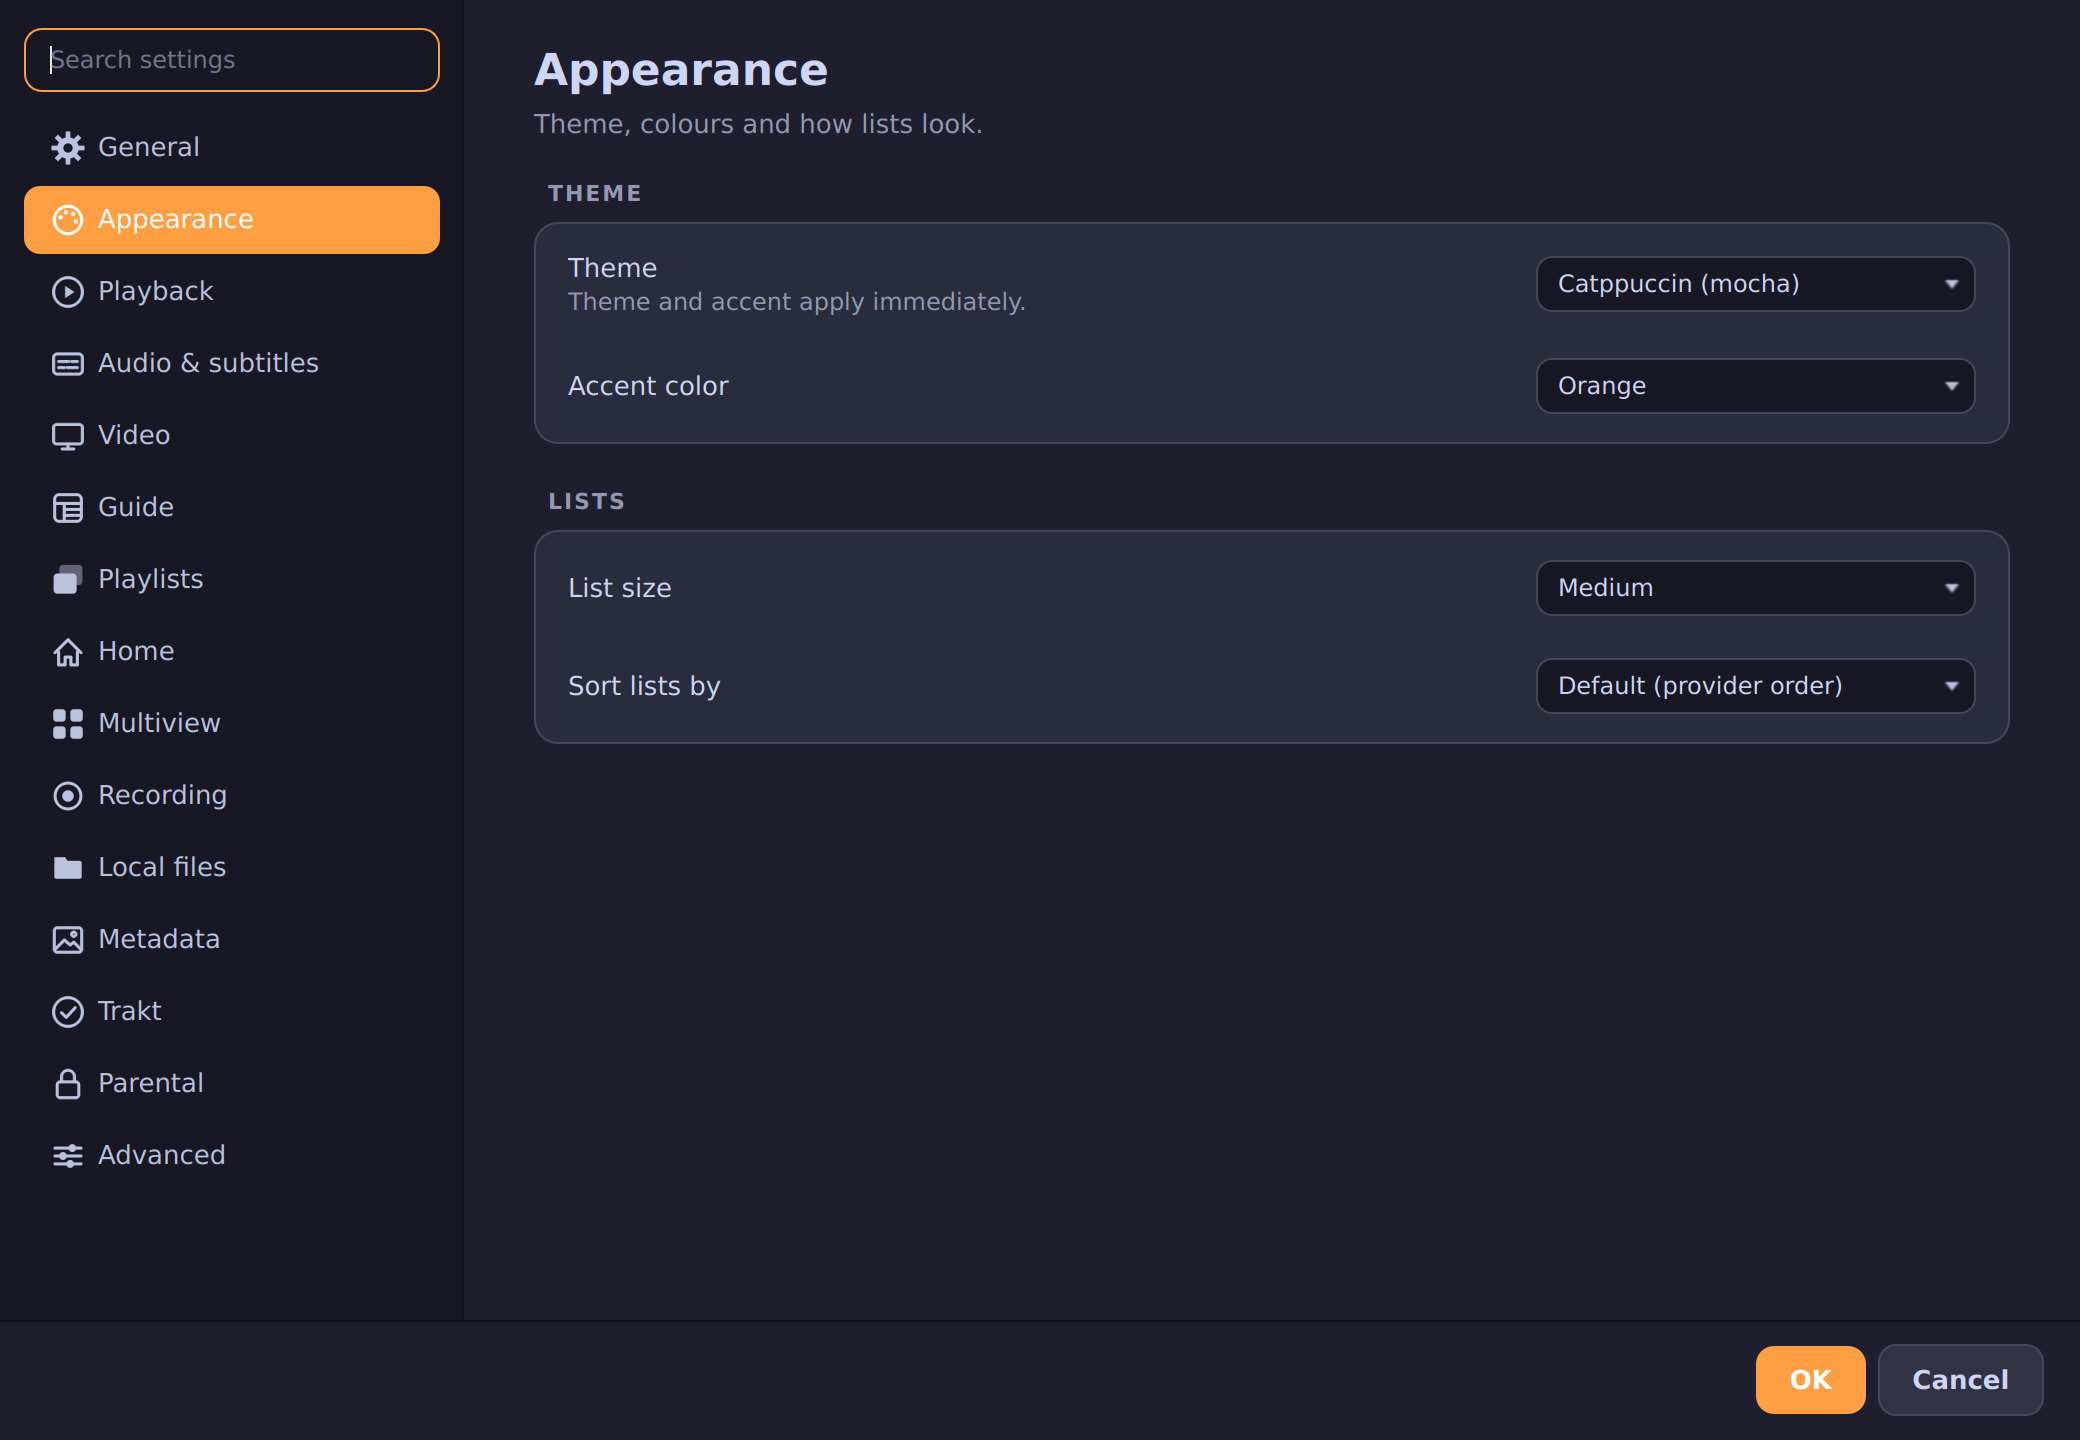
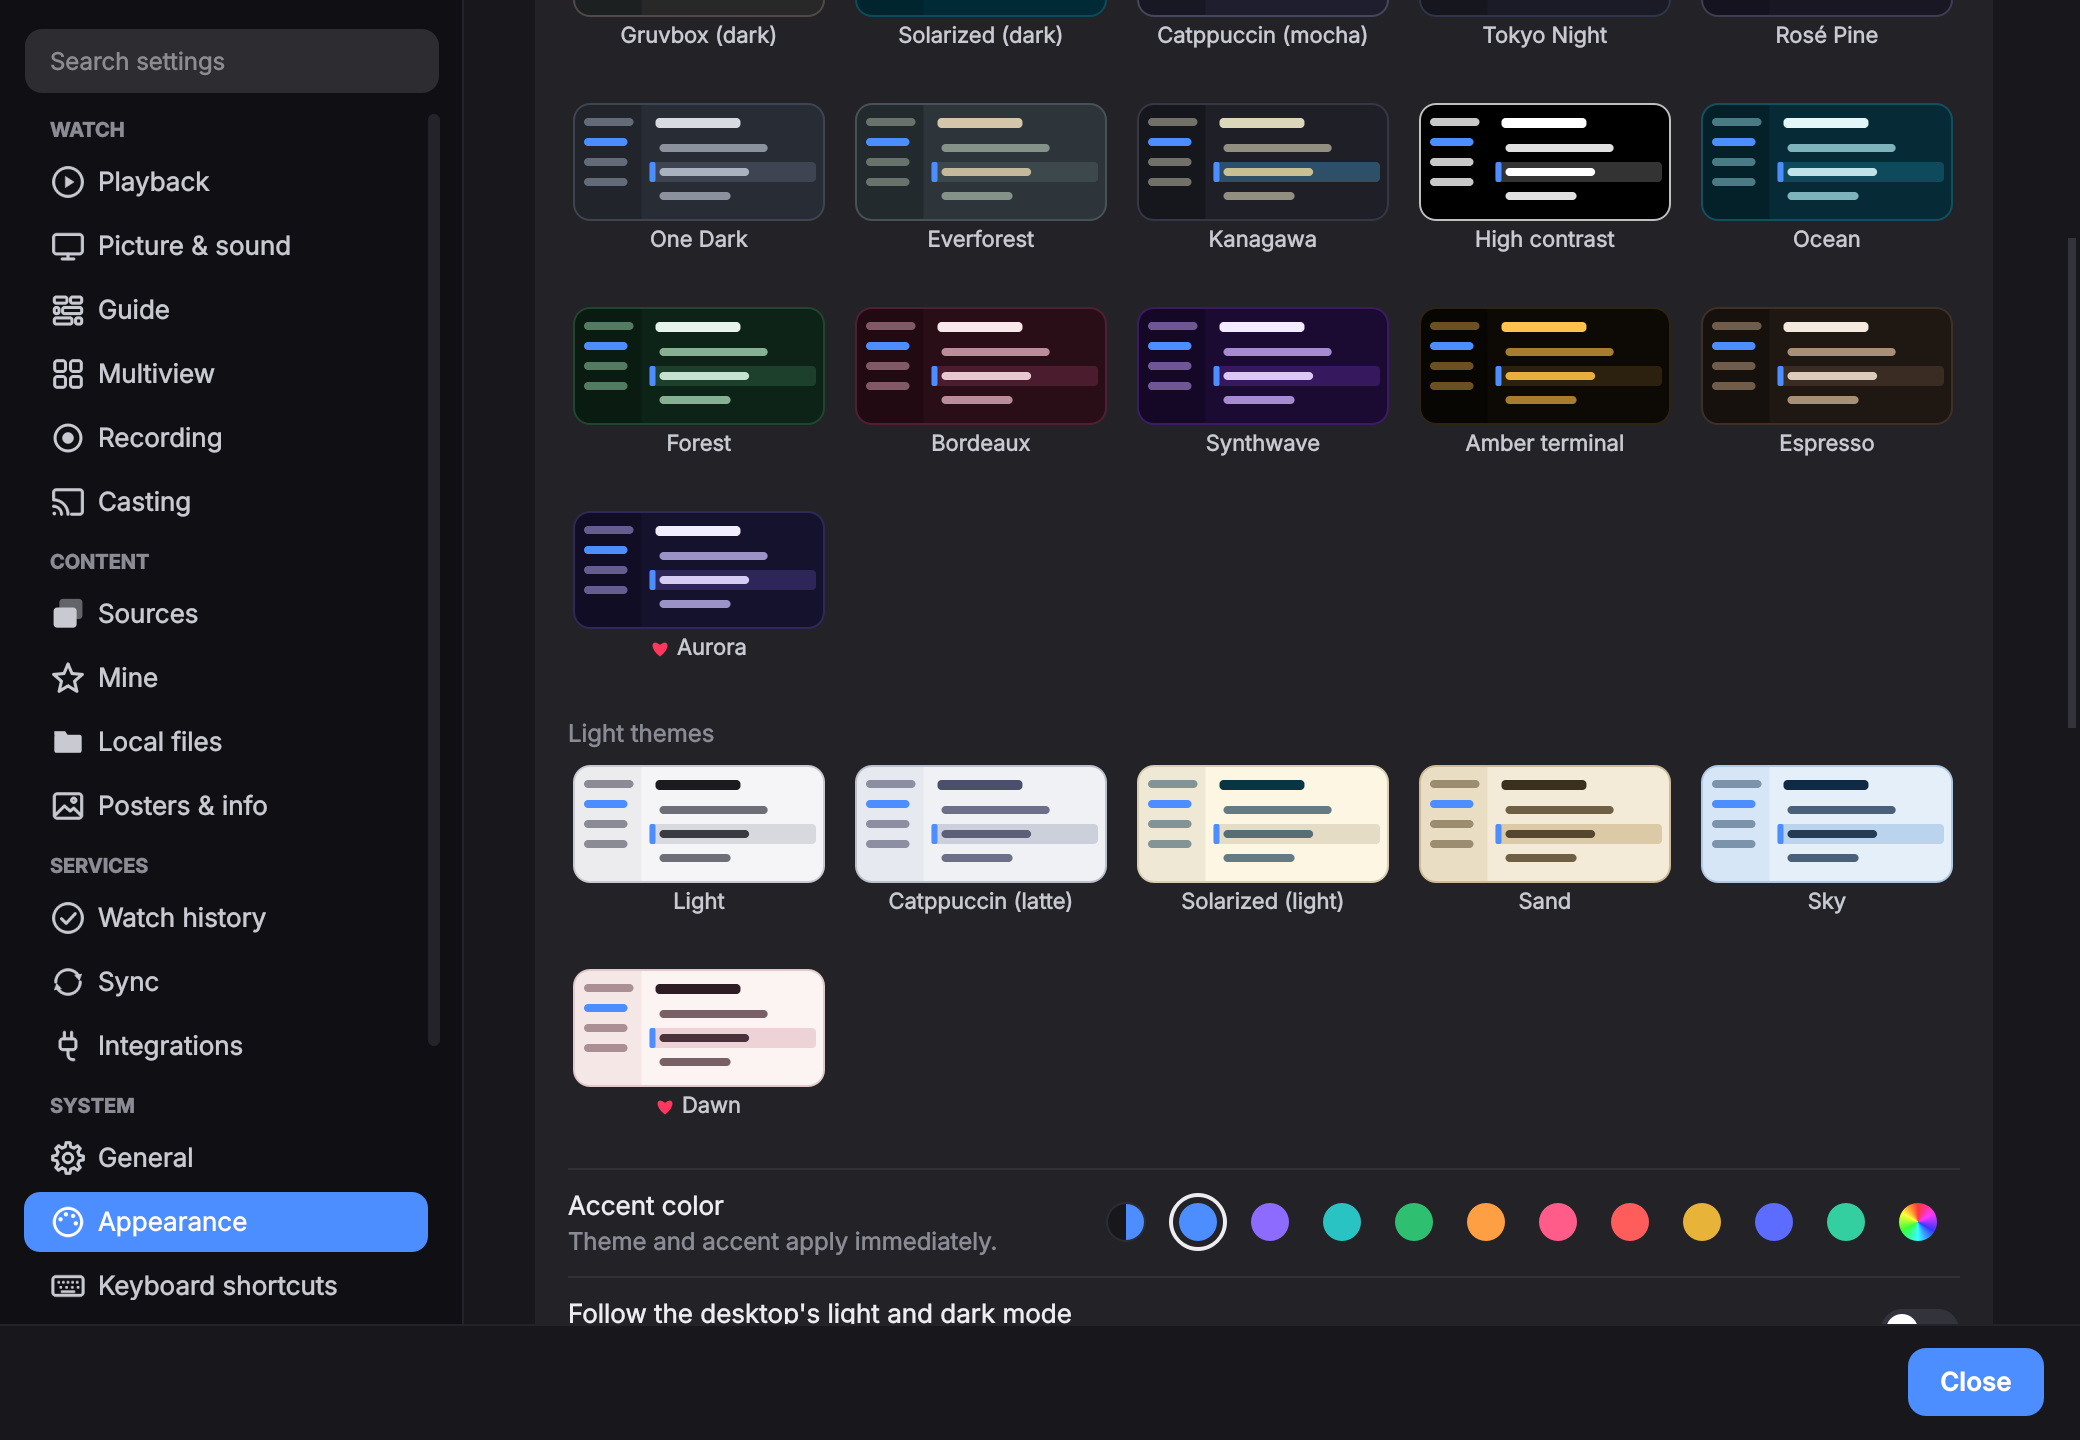
Store texts, package metadata, the bug form and the themes picture
- metainfo: a summary that covers every kind of source, Mine instead of
  the Home page, SAT>IP among the home sources, the optional home server,
  and a phone remote that browses, rewinds and records. appstreamcli
  validates it.
- pyproject.toml: a description that names the sources, keywords and the
  classifiers that are true (no licence classifier beside the SPDX
  expression), and the "Donate" link as "Support" to /support/.
- bug_report.yml: "Source type" with the boxes and media servers, the
  version from Help > About dopeIPTV or Settings > General (1.6.6), and the
  installed Windows copy's folder for the log.
- themes.png: Settings > Appearance as the app draws it today - the theme
  pictures, dark and light, and the accent colours - taken offscreen the
  way tools/help_screenshots.py takes the help's pictures, at the old
  picture's 2080 x 1440; the screenshots README says how.

Claude-Session: https://claude.ai/code/session_01Pa1PFo7EpSA5A3brHTPmEs

diff --git a/docs/screenshots/README.md b/docs/screenshots/README.md
@@ -10,9 +10,15 @@ point at them:
 | `epg-grid.png` | The **programme guide's timeline grid**. |
 | `multiview.png` | **Multiview** with four live channels. |
 | `player.png` | **Timeshift**: a live channel rewound, the timeline over the video. |
-| `themes.png` | **Settings → Appearance**: the theme and accent pickers. Taken by hand. |
+| `themes.png` | **Settings → Appearance**: the theme pictures, dark and light, and the accent colours. |
 
-All but `themes.png` are the website's English front-page pictures, made by
+`themes.png` is taken offscreen the way `tools/help_screenshots.py` takes the
+help's pictures of the settings (a throwaway settings store, the demo
+source, the default theme and accent, English): the Settings window at
+1040×720 with `QT_SCALE_FACTOR=2`, so 2080×1440, on Appearance, scrolled
+until the accent colours' row is at the bottom, saved as PNG.
+
+The others are the website's English front-page pictures, made by
 `tools/site_screenshots.py` (see `docs/MAINTAINING.md`): take them with
 `xvfb-run -a -s "-screen 0 2560x1600x24" python tools/site_screenshots.py OUT en`,
 then save `hero-1`, `feat-c3`, `feat-mv` and `feat-c1` from WebP
@@ -24,7 +30,7 @@ the metainfo of every release already out points at them on `main`.
 - Load the public **iptv-org** M3U (add a playlist → type **M3U** →
   `https://iptv-org.github.io/iptv/index.m3u`), or just use the built-in
   **🎬 Demo channels** button.
-- The theme picker shot needs no content at all.
+- The theme pictures need no content at all.
 - Don't want your provider's category names visible? Use the **◉** solo
   toggle by "Categories" (shows only the active one) or the **☰** icon-rail
   (`Ctrl+B`).
